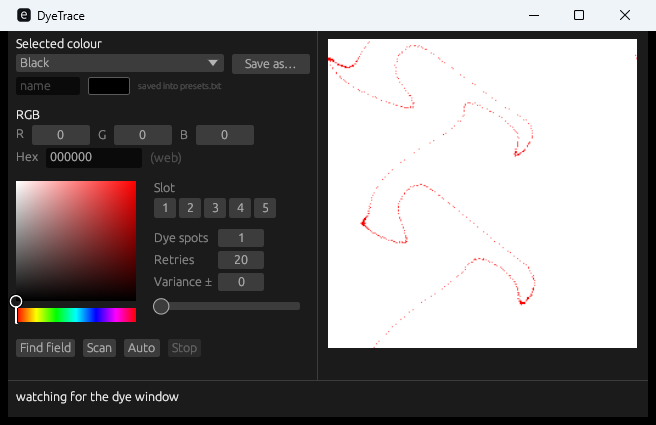
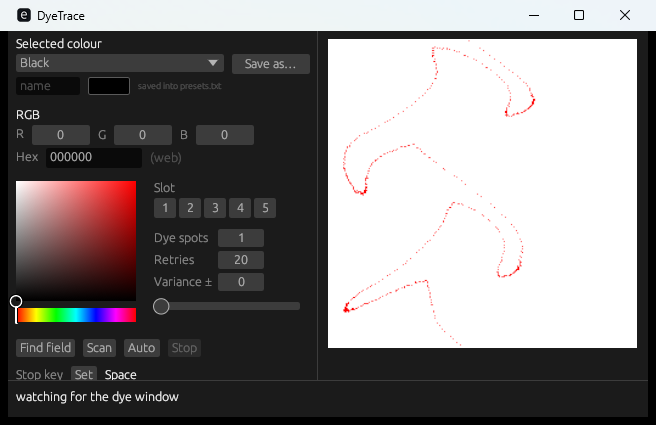
Add a stop key you can record in the window
The spacebar stop the README promised was never in the Rust build, and even a working key handler would not have helped: while a cycle runs the client is in the foreground, so the window sees no keystrokes. The key is now polled with GetAsyncKeyState, which answers wherever the focus is, and Stop key -> Set waits for a key press, records it and shows it beside the button. Space by default. A held key is waited out so it cannot stop the next cycle as well.

diff --git a/crates/ui/src/hotkey.rs b/crates/ui/src/hotkey.rs
@@ -1,0 +1,156 @@
+//! Watching for the stop key.
+//!
+//! While a cycle runs the client is in the foreground, so this window never sees
+//! the keystroke.  The key is polled with `GetAsyncKeyState` instead, which
+//! answers wherever the keystroke is going, and the poller raises the worker's
+//! stop flag when it goes down.
+
+use std::sync::atomic::{AtomicBool, Ordering};
+use std::sync::{Arc, Mutex};
+use std::thread;
+use std::time::Duration;
+
+use dyetrace_platform_win::key_down;
+use eframe::egui;
+
+/// How often the key is looked at.
+const POLL: Duration = Duration::from_millis(60);
+/// Space, until the window says otherwise.
+pub const DEFAULT_KEY: i32 = 0x20;
+
+/// A key that stops a running cycle, wherever the keyboard focus is.
+pub struct StopKey {
+    key: Arc<Mutex<i32>>,
+}
+
+impl StopKey {
+    /// Start watching, raising `stop` when the key goes down.
+    pub fn watch(stop: Arc<AtomicBool>) -> Self {
+        let key = Arc::new(Mutex::new(DEFAULT_KEY));
+        let watched = Arc::clone(&key);
+
+        thread::spawn(move || loop {
+            thread::sleep(POLL);
+
+            let current = watched.lock().map(|slot| *slot).unwrap_or(0);
+            if current == 0 || !key_down(current) {
+                continue;
+            }
+
+            stop.store(true, Ordering::SeqCst);
+            // A held key must not stop the next cycle as well, so wait for it to
+            // come back up before looking again.
+            while key_down(current) {
+                thread::sleep(POLL);
+            }
+        });
+
+        Self { key }
+    }
+
+    /// Change the key, by virtual-key code.
+    pub fn set(&self, vk: i32) {
+        if let Ok(mut slot) = self.key.lock() {
+            *slot = vk;
+        }
+    }
+}
+
+/// The Windows virtual-key code for a key the window can name.
+///
+/// Only keys with a stable code are offered - letters, digits, the named
+/// editing keys and the function keys - so the recorded key and the polled one
+/// are always the same thing.
+pub fn virtual_key(key: egui::Key) -> Option<i32> {
+    use eframe::egui::Key;
+
+    let code = match key {
+        Key::A => 0x41,
+        Key::B => 0x42,
+        Key::C => 0x43,
+        Key::D => 0x44,
+        Key::E => 0x45,
+        Key::F => 0x46,
+        Key::G => 0x47,
+        Key::H => 0x48,
+        Key::I => 0x49,
+        Key::J => 0x4A,
+        Key::K => 0x4B,
+        Key::L => 0x4C,
+        Key::M => 0x4D,
+        Key::N => 0x4E,
+        Key::O => 0x4F,
+        Key::P => 0x50,
+        Key::Q => 0x51,
+        Key::R => 0x52,
+        Key::S => 0x53,
+        Key::T => 0x54,
+        Key::U => 0x55,
+        Key::V => 0x56,
+        Key::W => 0x57,
+        Key::X => 0x58,
+        Key::Y => 0x59,
+        Key::Z => 0x5A,
+
+        Key::Num0 => 0x30,
+        Key::Num1 => 0x31,
+        Key::Num2 => 0x32,
+        Key::Num3 => 0x33,
+        Key::Num4 => 0x34,
+        Key::Num5 => 0x35,
+        Key::Num6 => 0x36,
+        Key::Num7 => 0x37,
+        Key::Num8 => 0x38,
+        Key::Num9 => 0x39,
+
+        Key::F1 => 0x70,
+        Key::F2 => 0x71,
+        Key::F3 => 0x72,
+        Key::F4 => 0x73,
+        Key::F5 => 0x74,
+        Key::F6 => 0x75,
+        Key::F7 => 0x76,
+        Key::F8 => 0x77,
+        Key::F9 => 0x78,
+        Key::F10 => 0x79,
+        Key::F11 => 0x7A,
+        Key::F12 => 0x7B,
+
+        Key::Space => 0x20,
+        Key::Enter => 0x0D,
+        Key::Tab => 0x09,
+        Key::Escape => 0x1B,
+        Key::Backspace => 0x08,
+        Key::Insert => 0x2D,
+        Key::Delete => 0x2E,
+        Key::Home => 0x24,
+        Key::End => 0x23,
+        Key::PageUp => 0x21,
+        Key::PageDown => 0x22,
+        Key::ArrowLeft => 0x25,
+        Key::ArrowUp => 0x26,
+        Key::ArrowRight => 0x27,
+        Key::ArrowDown => 0x28,
+
+        Key::Minus => 0xBD,
+        Key::Plus | Key::Equals => 0xBB,
+        Key::Comma => 0xBC,
+        Key::Period => 0xBE,
+        Key::Slash => 0xBF,
+        Key::Semicolon => 0xBA,
+        Key::Quote => 0xDE,
+        Key::OpenBracket => 0xDB,
+        Key::CloseBracket => 0xDD,
+        Key::Backslash => 0xDC,
+        Key::Backtick => 0xC0,
+
+        _ => return None,
+    };
+
+    Some(code)
+}
+
+/// The virtual-key code of a key named by the window, for the default.
+pub fn default_key() -> egui::Key {
+    egui::Key::Space
+}

diff --git a/crates/ui/src/app.rs b/crates/ui/src/app.rs
@@ -1,6 +1,7 @@
 //! The window: controls on the left, colour picker and match preview on the
 //! right.
 
+use crate::hotkey::{self, StopKey};
 use crate::hsv;
 use crate::picker::{self, PickerTextures};
 use crate::presets::Presets;
@@ -56,8 +57,14 @@ pub struct DyeTraceApp {
 
     preview: Preview,
     worker: Worker,
+    stop_key: StopKey,
+    /// The key the player picked to stop a cycle.
+    stop_on: egui::Key,
+    /// Waiting for the player to press the key they want.
+    recording: bool,
     scan: Option<Scan>,
     status: String,
+
 }
 
 impl DyeTraceApp {
@@ -68,6 +75,9 @@ impl DyeTraceApp {
             .options_mut(|options| options.theme_preference = egui::ThemePreference::Dark);
 
         let preview = Preview::spawn();
+        let worker = Worker::spawn(&preview);
+        let stop_key = StopKey::watch(worker.stop_flag().expect("worker stop flag"));
+
         let mut app = Self {
             colour: Rgb::black(),
             hex_text: "000000".to_string(),
@@ -83,8 +93,11 @@ impl DyeTraceApp {
             textures: PickerTextures::default(),
             hit_texture: None,
             hit_key: (u32::MAX, 0, 0),
-            worker: Worker::spawn(&preview),
             preview,
+            worker,
+            stop_key,
+            stop_on: hotkey::default_key(),
+            recording: false,
             scan: None,
             status: "watching for the dye window".to_string(),
         };
@@ -102,6 +115,27 @@ impl DyeTraceApp {
         }
         self.saturation = s;
         self.value = v;
+    }
+
+    /// Take the next key the player presses as the stop key.
+    fn capture_stop_key(&mut self, ctx: &egui::Context) {
+        let pressed = ctx.input(|input| {
+            input.events.iter().find_map(|event| match event {
+                egui::Event::Key {
+                    key,
+                    pressed: true,
+                    ..
+                } => Some(*key),
+                _ => None,
+            })
+        });
+
+        let Some(key) = pressed else { return };
+        if let Some(code) = hotkey::virtual_key(key) {
+            self.stop_on = key;
+            self.stop_key.set(code);
+            self.recording = false;
+        }
     }
 
     fn colour_from_picker(&mut self) {
@@ -279,6 +313,20 @@ impl DyeTraceApp {
             if ui.add_enabled(busy, egui::Button::new("Stop")).clicked() {
                 self.worker.request_stop();
             }
+        });
+
+        ui.add_space(6.0);
+        ui.horizontal(|ui| {
+            ui.label("Stop key");
+            if ui.button("Set").clicked() {
+                self.recording = true;
+            }
+            let shown = if self.recording {
+                "press a key".to_string()
+            } else {
+                self.stop_on.name().to_string()
+            };
+            ui.label(RichText::new(shown).strong());
         });
     }
 
@@ -500,6 +548,10 @@ impl DyeTraceApp {
 impl eframe::App for DyeTraceApp {
     fn update(&mut self, ctx: &egui::Context, _frame: &mut eframe::Frame) {
         self.drain_worker(ctx);
+
+        if self.recording {
+            self.capture_stop_key(ctx);
+        }
 
         // The palette is watched on its own thread; wake up often enough to show
         // what it found.

diff --git a/crates/ui/src/worker.rs b/crates/ui/src/worker.rs
@@ -164,7 +164,11 @@ fn run_job(job: Job, capture: &Capture, messages: &Sender<Msg>, stop: &Arc<Atomi
                     hex(opts.colour)
                 ),
                 cycle::Outcome::Exhausted { cycles } => {
-                    format!("no match after {cycles} cycle(s)")
+                    if stop.load(Ordering::Relaxed) {
+                        format!("stopped after {cycles} cycle(s)")
+                    } else {
+                        format!("no match after {cycles} cycle(s)")
+                    }
                 }
                 cycle::Outcome::NoClient => "client or gradient not found".to_string(),
                 cycle::Outcome::PointerLost { cycles } => {

diff --git a/crates/platform-win/src/lib.rs b/crates/platform-win/src/lib.rs
@@ -18,3 +18,13 @@ pub use screen::WinScreen;
 pub use window::WinWindow;
 
 pub use dyetrace_platform::traits::{GameWindow, Mouse, Rect, Screen, WindowId};
+
+/// Is a key down right now, wherever the keystroke is going?
+///
+/// `vk` is a virtual-key code, so this works even when another window - the
+/// game - has the keyboard focus.
+pub fn key_down(vk: i32) -> bool {
+    // SAFETY: GetAsyncKeyState takes the key code by value and reads no memory
+    // of ours; the high bit of the result is "down".
+    unsafe { ffi::GetAsyncKeyState(vk) as u16 & 0x8000 != 0 }
+}

diff --git a/crates/platform-win/src/ffi.rs b/crates/platform-win/src/ffi.rs
@@ -90,6 +90,9 @@ extern "system" {
     pub fn SetCursorPos(x: i32, y: i32) -> BOOL;
     pub fn mouse_event(flags: u32, dx: u32, dy: u32, data: u32, extra: usize);
 
+    /// Whether a key is down, wherever the keystroke is going.
+    pub fn GetAsyncKeyState(key: i32) -> i16;
+
     pub fn FindWindowA(class: *const u8, title: *const u8) -> HWND;
     pub fn PrintWindow(hwnd: HWND, hdc: HDC, flags: u32) -> BOOL;
     pub fn IsWindow(hwnd: HWND) -> BOOL;

diff --git a/crates/ui/src/main.rs b/crates/ui/src/main.rs
@@ -6,6 +6,7 @@
 #![cfg_attr(not(debug_assertions), windows_subsystem = "windows")]
 
 mod app;
+mod hotkey;
 mod hsv;
 mod picker;
 mod presets;

diff --git a/README.md b/README.md
@@ -21,7 +21,7 @@ It is not a byte-for-byte port. It reproduces the behaviour by reading the scree
 - **Matches by count, not by slot order.** You give one colour, a variance, and how many of the five samples must hold it (1–5).
 - **Shows a live hit map** - a white pane with red where the colour exists, the same view the original presents, refreshed twice a second while the dye window is open. Boxes and numbers mark the sampled positions once a scan has measured them.
 - **Auto mode** runs the whole cycle: `Pick Color` → capture → read offsets → search → click, or `Cancel` and try again. Presses are gated on the button's label, so a dye is never applied by accident.
-- **Stops on demand** with the spacebar or the Stop button.
+- **Stops on demand** with the Stop button or a key you choose: press `Set`, press the key, and it is watched wherever the keyboard focus is.
 - **Self-tests** (`--selftest`) so you can check a build without opening the game.
 
 ## Repository layout
@@ -89,6 +89,7 @@ rolled again they disappear until the next Scan.
 | `Find field` | Locate the palette and report where it is. |
 | `Scan` | Read the client's sample offsets, search, and draw the hit map. Nothing is clicked except Pick Color, and only if the picker is not already armed. |
 | `Auto` | Run the cycle until it clicks a match, or Stop. |
+| `Stop key` | `Set` waits for a key press and records it; the key shown beside the button is the one that stops a running cycle. Space by default. It is polled globally, so it works while the game has the keyboard focus. |
 
 The preview is the same view the original presents: white with red where the
 colour exists, blue squares for the client's legend, numbered points for the five
